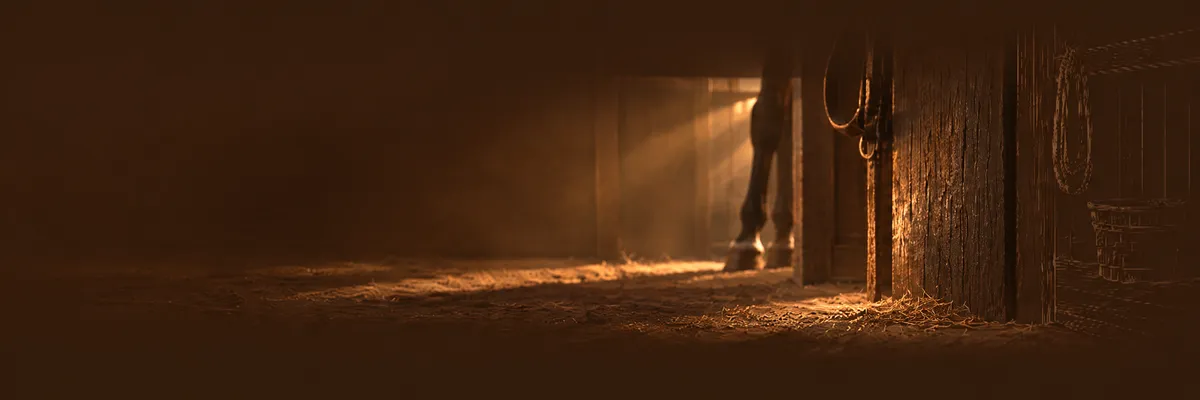
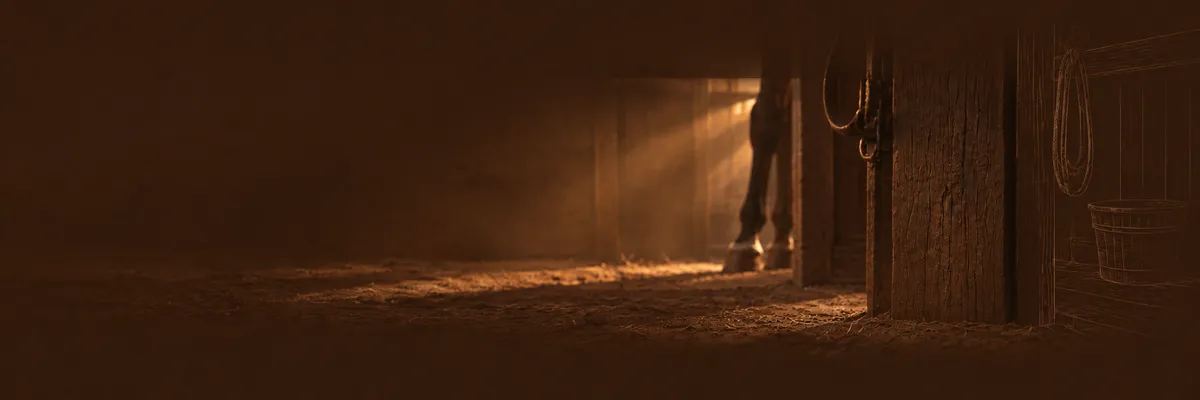
feat(JIA-2026-09-19-40): fases 3-4 — la herradura 3D cuelga siempre del poste del establo: el pie marca su cara iluminada y el motor lee ese rectángulo en cada colocación (clavo centrado, tamaño por el ancho del poste); segunda versión de la imagen, umbral 1100 px e informe
Resumen: columnas del pie compactas, equidistantes y centradas; imagen del establo de fondo anclada por su poste con
bordes fundidos y velo graduado; herradura anclada al marcador (desfase 2-3 px a 1920/1788/1440/1100), al 78 % de la
cara del poste, con la caída por doble clic verificada (vuelve al mismo sitio).
Riesgos moderados: el velo y stablePost están calibrados sobre esta imagen (cambiarla obliga a revisarlos); origen y
licencia de la imagen por confirmar. Sin graves ni críticos.

diff --git a/components/site/horseshoe/horseshoe-scene.ts b/components/site/horseshoe/horseshoe-scene.ts
@@ -65,6 +65,8 @@ export class HorseshoeScene {
     canvas: HTMLCanvasElement,
     private hit: HTMLElement,
     private reducedMotion: boolean,
+    /** The marker on the post the shoe hangs on (config.post); null hangs it by the window's right edge. */
+    private post: HTMLElement | null = null,
   ) {
     this.renderer = new THREE.WebGLRenderer({ canvas, alpha: true, antialias: true, powerPreference: "low-power" });
     this.renderer.setClearColor(0x000000, 0);
@@ -174,14 +176,26 @@ export class HorseshoeScene {
 
     const size = CFG.size;
     const modelH = this.modelBox.max.y - this.modelBox.min.y;
+    const modelW = this.modelBox.max.x - this.modelBox.min.x;
+    // On the post: as wide as its share of the post's lit face. Otherwise, by the block's height.
+    const postBox = this.post?.getBoundingClientRect();
+    const onPost = postBox && postBox.width > 0 ? postBox : null;
     const targetH = Math.min(size.maxPx, Math.max(size.minPx, this.height * size.share));
-    const scale = targetH / modelH;
+    const scale = onPost ? (onPost.width * CFG.post.widthShare) / modelW : targetH / modelH;
     this.model.scale.setScalar(scale);
     // Model z runs through the shoe's thickness; keep it centred on the nail's plane.
     this.model.position.z = -(this.modelBox.max.z + this.modelBox.min.z) * scale * 0.5;
 
-    const nailX = this.width - CFG.nail.insetRightPx - this.modelBox.max.x * scale;
-    const nailY = CFG.nail.topPx + this.modelBox.max.y * scale;
+    let nailX = this.width - CFG.nail.insetRightPx - this.modelBox.max.x * scale;
+    let nailY = CFG.nail.topPx + this.modelBox.max.y * scale;
+    if (onPost) {
+      // The hanging shoe's centre, turned about its nail as it rests, goes to the middle of the post's face.
+      const rest = THREE.MathUtils.degToRad(CFG.restTiltDeg);
+      const cx = (this.modelBox.min.x + this.modelBox.max.x) / 2;
+      const cy = (this.modelBox.min.y + this.modelBox.max.y) / 2;
+      nailX = onPost.left - rect.left + onPost.width / 2 - (cx * Math.cos(rest) - cy * Math.sin(rest)) * scale;
+      nailY = onPost.top - rect.top;
+    }
     this.nailAt.set(nailX, -nailY);
     // A resize mid-fall puts the shoe back on its nail.
     this.fallen = false;

diff --git a/components/site/horseshoe/Horseshoe.tsx b/components/site/horseshoe/Horseshoe.tsx
@@ -14,9 +14,9 @@ const subscribeLarge = (cb: () => void) => {
 const isLarge = () => window.matchMedia(CFG.largeMedia).matches;
 
 /**
- * A worn horseshoe hanging from a nail on the footer's top edge, by the window's right margin, drawn with
- * Three.js on a transparent canvas over the block above the rule (horseshoe-scene.ts). Large desktop
- * windows only: elsewhere nothing is mounted. Decoration with a real button over it: the button carries
+ * A worn horseshoe hanging from a nail on the post of the footer's stable (config.post), drawn with
+ * Three.js on a transparent canvas over the block above the rule (horseshoe-scene.ts). Not on small
+ * windows: there nothing is mounted. Decoration with a real button over it: the button carries
  * the accessible name and the double click (Enter or Space with the keyboard), which makes the shoe fall (and climb back). Without WebGL or the
  * model nothing is drawn.
  */
@@ -52,7 +52,8 @@ function Stage({ glb, label }: Props) {
       if (disposed || !mod.webglAvailable()) return;
       let scene: import("./horseshoe-scene").HorseshoeScene;
       try {
-        scene = new mod.HorseshoeScene(stage, canvas, hit, window.matchMedia("(prefers-reduced-motion: reduce)").matches);
+        const post = stage.closest("footer")?.querySelector<HTMLElement>(CFG.post.selector) ?? null;
+        scene = new mod.HorseshoeScene(stage, canvas, hit, window.matchMedia("(prefers-reduced-motion: reduce)").matches, post);
       } catch (err) {
         console.warn("[Horseshoe] WebGL renderer unavailable:", err);
         return;

diff --git a/components/site/horseshoe/config.ts b/components/site/horseshoe/config.ts
@@ -3,9 +3,15 @@
  * Sizes are CSS pixels of the footer's block above the rule; the model is in metres and is scaled to fit.
  */
 export const HORSESHOE = {
-  /** Only large desktop windows get the shoe (promoter): below this it is not even mounted. From 1600 px the
-      window's margin beside the container holds it without covering the "Colabora" column. */
-  largeMedia: "(min-width: 1600px)",
+  /** From this window width the shoe is mounted. It used to need a very wide window (it hung in the margin beside
+      the lists); since JIA-2026-09-19-40 it hangs on the stable's post, which stands on the free ground right of
+      the centred lists from a laptop up. Below it the post is out of sight and nothing is mounted. */
+  largeMedia: "(min-width: 1100px)",
+  /** The post it hangs on: the footer marks the post's lit face with an element (`[data-horseshoe-post]`) and the
+      scene reads its box at every placement — the nail goes to the middle of that face, at the marker's height,
+      and the shoe is as wide as this share of the face. With no marker the shoe hangs by the window's right edge
+      (`size`, `nail.insetRightPx`, `nail.topPx` below). */
+  post: { selector: "[data-horseshoe-post]", widthShare: 0.78 },
   /** Height of the shoe as a share of the block above the rule, then clamped. */
   size: { share: 0.5, minPx: 96, maxPx: 240 },
   nail: {

diff --git a/lib/content/media.ts b/lib/content/media.ts
@@ -148,8 +148,8 @@ export const MEDIA: Record<string, Media> = Object.fromEntries(
         { src: "/footer/establo-2172.webp", width: 2172 },
       ],
       ratio: 2172 / 724,
-      original: "assets/images-website/footer-caballo-poste.png",
-      license: "Imagen aportada por el promotor el 19-09-2026 (origen y licencia por confirmar)",
+      original: "assets/images-website/footer-caballo-poste-2.png",
+      license: "Imagen aportada por el promotor el 20-09-2026, segunda versión del establo (origen y licencia por confirmar)",
     },
     {
       /** Experiencias ground. The teacher stands on the left; the right half is clear paper for the text. */

diff --git a/lib/content/sections/footer.ts b/lib/content/sections/footer.ts
@@ -15,5 +15,5 @@ export const footerConfig = {
   stableMediaId: "footer-establo" as string | null,
   /** Where the lit face of the post is in that image, as percentages of its box: the face's left edge and width,
       and how far down the nail goes. The footer lays an invisible marker there and the horseshoe reads it. */
-  stablePost: { leftPct: 74.4, widthPct: 9.4, nailTopPct: 21 },
+  stablePost: { leftPct: 74.4, widthPct: 10.3, nailTopPct: 28 },
 } as const;

diff --git a/docs/prompts-output/JIA-2026-09-19-40/report.md b/docs/prompts-output/JIA-2026-09-19-40/report.md
@@ -1,0 +1,66 @@
+# JIA-2026-09-19-40 — Informe
+
+**Prompt:** `docs/prompts/JIA-2026-09-19-40-pie-con-la-imagen-del-establo-herradura-colgada-del-poste-y-columnas-compactas-y-centradas.md`
+**Fecha:** 2026-09-19 / 20 · **Rama:** `main`
+
+| Fase | Commit | Contenido |
+|---|---|---|
+| 0 | `8e9c116` | Prompt (antes de ejecutar). |
+| 1 | `24d8ed7` | Columnas del pie compactas, equidistantes y centradas. |
+| 2 | `2a22d44` | La imagen del establo de fondo del bloque superior. |
+| 3–4 | (este) | Herradura anclada al poste, segunda versión de la imagen, informe. |
+
+## Resultado
+
+**1 · Columnas.** «Secciones», «Organiza» y «Colabora» viajan juntas en un grupo (`.cols`) dentro de una rejilla de
+tres zonas —marca · grupo · suelo libre— cuyos laterales son iguales: el grupo queda **centrado respecto a la ventana**
+a cualquier ancho (medido: centro del grupo = centro de la ventana a 1920, 1440, 1280 y 1100) y con **la misma
+separación** entre las tres (44–64 px según el ancho, antes ≈ 300 px). Desaparece el hueco grande tras la marca. En
+tablet siguen las cuatro columnas de antes; en móvil, apiladas.
+
+**2 · La imagen.** Entra por la vía de contenido del proyecto: derivados en `public/footer/establo-{1200,2172}.webp`
+(`scripts/build-assets.sh`), medio `footer-establo` en `lib/content/media.ts`, `stableMediaId`/`stablePost` en
+`lib/content/sections/footer.ts` y campo `stable` en el modelo. El componente no conoce rutas ni medidas.
+Se escala por el **alto del bloque** y se coloca **por su poste**, que cae en el suelo libre a la derecha del grupo.
+Bordes fundidos a tinta con `mask-image` y velo graduado (denso bajo las listas, nulo sobre el poste) para que el texto
+se lea igual que antes. Se usa la **segunda versión** que envió el promotor el 20-09
+(`assets/images-website/footer-caballo-poste-2.png`); la primera se queda al lado, sin uso: los originales no se
+sobrescriben.
+
+**3 · La herradura, siempre en el poste.** El pie marca la cara iluminada del poste con un elemento invisible
+(`[data-horseshoe-post]`, colocado en porcentajes de la caja de la imagen) y `horseshoe-scene.ts` **lee su rectángulo
+en cada colocación**: el clavo va al centro de esa cara y el tamaño sale del **ancho del poste** (`post.widthShare`
+0,78). Como imagen y marcador escalan juntos, coinciden a cualquier ancho **sin números mágicos en el motor**; sin
+marcador, la herradura se comporta como antes (junto al borde derecho). Medido: desfase entre el centro de la
+herradura y el del poste de **2–3 px** a 1920, 1788, 1440 y 1100.
+**Tamaño:** decisión delegada por el promotor — la herradura pasa de un tope de 240 px a ≈ 124 px, el 78 % de la cara
+del poste, que es lo que pide la madera.
+**Umbral de montaje:** de 1600 px a **1100 px**: con el grupo centrado, el poste ya queda libre en ventanas medianas.
+**Caída:** verificada con doble clic real por CDP — cae del poste, rebota, queda de pie sobre la línea, el clavo no se
+mueve de la madera y a los 5 s vuelve exactamente a su sitio (misma caja que colgada: 1442–1566, top 23).
+
+## Verificación
+
+`tsc`, `check:content` y `next build` ok. Chrome real por CDP a 1920, 1788, 1440, 1280, 1100, 900 y 390:
+`scrollWidth = clientWidth` salvo los desbordes previos y ajenos (1280 → 1290, 900 → 925, 390 → 438). Por debajo de
+1100 px no se monta ningún `<canvas>`. Evidencias en `evidence/`: antes, después, detalle 2× de la herradura en el
+poste, móvil y los cuatro fotogramas de la caída.
+
+## Riesgos
+
+**Críticos / graves:** ninguno.
+
+**Moderados**
+1. **Legibilidad.** El texto se lee bien en las capturas, pero el velo está calibrado sobre esta imagen; si el promotor
+   cambia la fotografía habrá que revisarlo (y las cifras de `stablePost`). Conviene que lo mire en su pantalla.
+2. **`stablePost` depende de la imagen.** Los porcentajes (74,4 % / 10,3 % / 28 %) se midieron sobre la segunda
+   versión. Cambiar la imagen sin actualizarlos deja la herradura fuera del poste. Está documentado en
+   `sections/footer.ts`.
+3. **Origen y licencia de la imagen por confirmar**, como el resto de imágenes aportadas; anotado en `media.ts`.
+
+**Menores**
+- La herradura es ahora bastante más pequeña; es lo que pide el poste.
+- Sigue sin medirse en GPU real (capturas por software).
+- El promotor renombró `hero-2-almeria-docentes.png` mientras se ejecutaba; se le devolvió su nombre porque el hero y
+  «Acoge JIA» lo usan y `build-assets.sh` lo deriva. Si quería esa imagen (el paisaje con el poste indicador) en el
+  pie, es otro encargo.

diff --git a/docs/prompts/JIA-2026-09-19-40-pie-con-la-imagen-del-establo-herradura-colgada-del-poste-y-columnas-compactas-y-centradas.md b/docs/prompts/JIA-2026-09-19-40-pie-con-la-imagen-del-establo-herradura-colgada-del-poste-y-columnas-compactas-y-centradas.md
@@ -5,7 +5,7 @@ imagen `assets/images-website/footer-caballo-poste.png` (2172 × 724, 3:1: estab
 contraluz en la puerta, y a la derecha un **poste de madera** iluminado; los bordes se funden a marrón oscuro).
 **Nivel:** LEVEL 2 (imagen nueva en el pie + cambio del anclaje de un componente WebGL + maquetación) · tmp/scratch:
 **aplica** → `docs/prompts-output/JIA-2026-09-19-40/tmp/progress.md` y `evidence/`.
-**Estado:** SIN EJECUTAR
+**Estado:** EJECUTADO (2026-09-19/20) — informe en `docs/prompts-output/JIA-2026-09-19-40/report.md`. Decisiones de ejecución: herradura al 78 % de la cara del poste (≈ 124 px), umbral de montaje 1100 px y segunda versión de la imagen del establo (enviada el 20-09).
 
 ## Texto del promotor
 

diff --git a/docs/prompts-output/JIA-2026-09-19-40/tmp/progress.md b/docs/prompts-output/JIA-2026-09-19-40/tmp/progress.md
@@ -1,3 +1,5 @@
 - fase 0: prompt commiteado (8e9c116)
 - fase 1: columnas del pie en un grupo centrado (rejilla de tres zonas ≥ 1100 px), huecos iguales 44–64 px; centro del grupo = centro de la ventana a 1920/1440/1280/1100
 - fase 2: imagen del establo (public/footer/establo-{1200,2172}.webp, media footer-establo, stableMediaId/stablePost, footer.stable en el modelo); capa anclada por el poste con máscara y velos; texto legible a 1788
+- fase 3: herradura anclada al marcador del poste (config.post, Horseshoe pasa el elemento, place() lee su caja); tamaño por el ancho del poste; umbral 1600 → 1100; segunda versión de la imagen del establo (20-09); caída verificada por doble clic
+- fase 4: informe y estado del prompt
